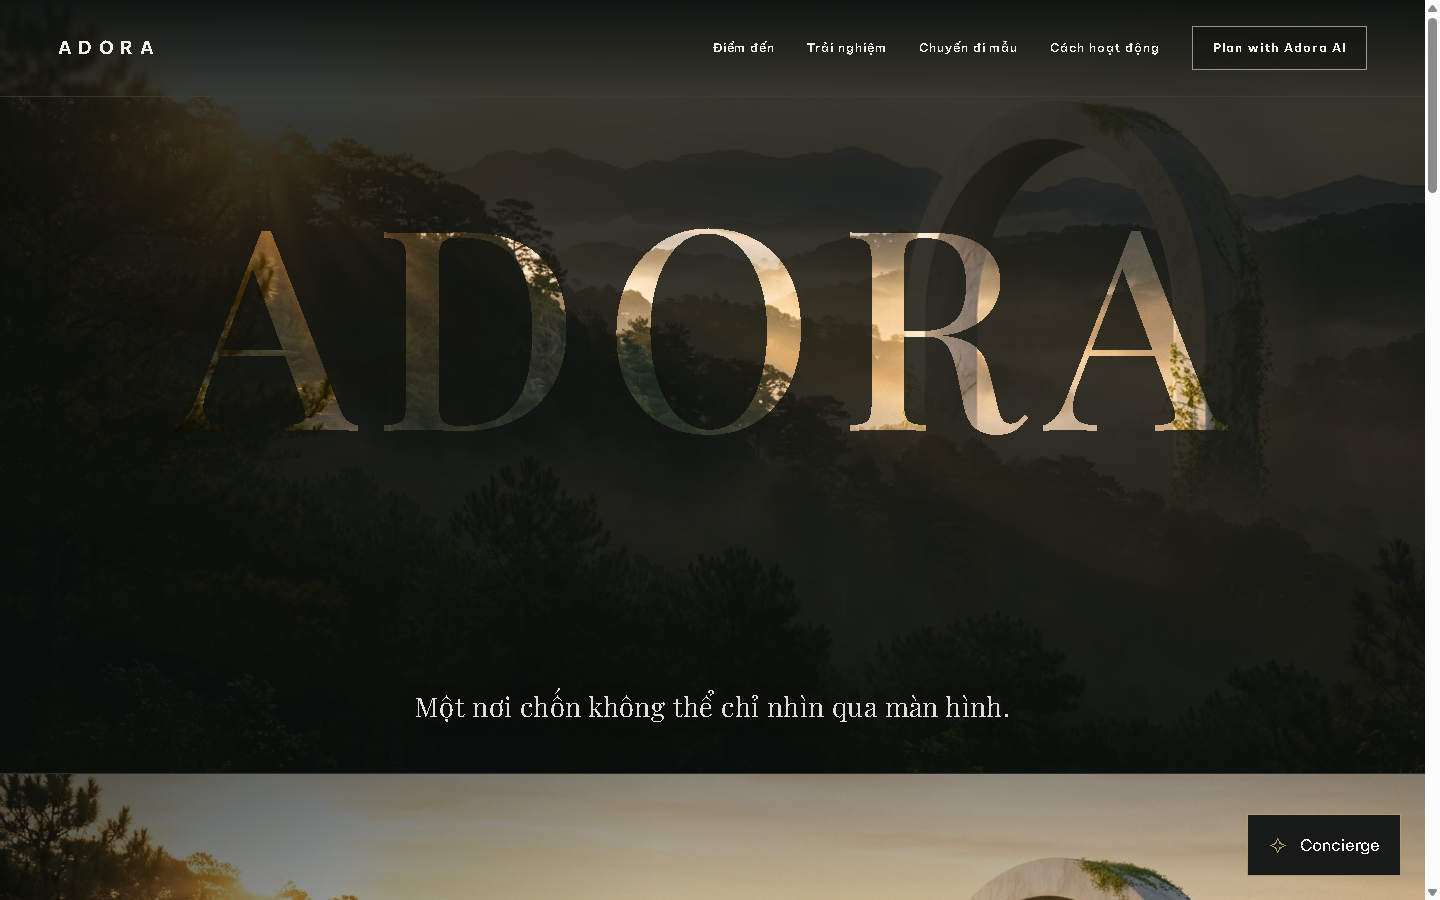
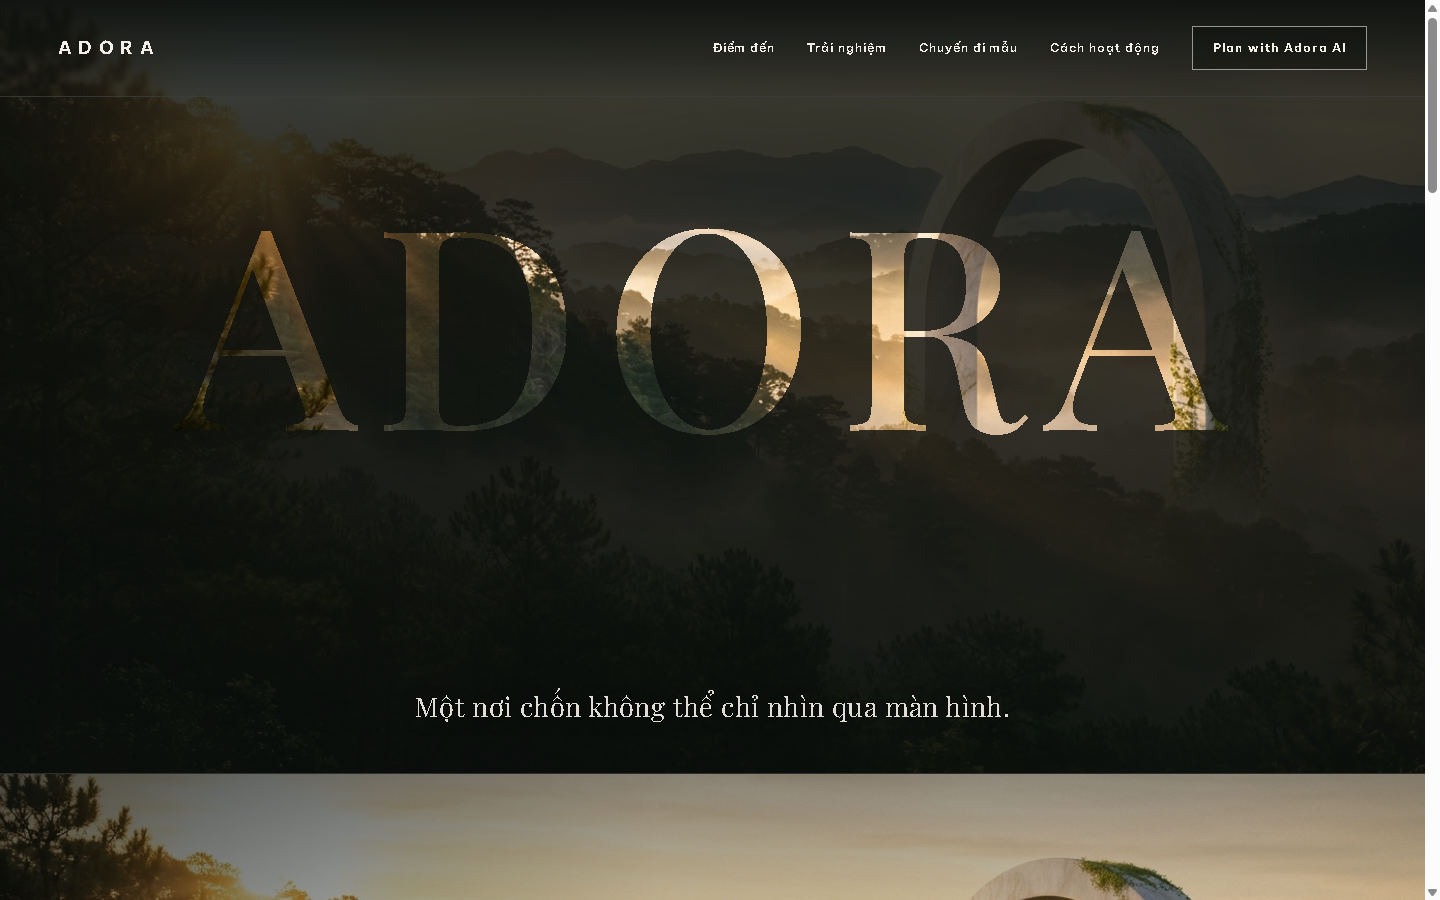
test(web): close cinematic homepage release-candidate checks

Changed region(s): [[0.8438, 0.9022, 1.0, 0.9956]]

diff --git a/docs/reports/ADORA_CXP03C_PRODUCTION_HARDENING_REPORT.md b/docs/reports/ADORA_CXP03C_PRODUCTION_HARDENING_REPORT.md
@@ -1,0 +1,86 @@
+# ADORA CXP-03C — Production Hardening & Final Verification Report
+
+**Release Candidate Verdict:** `ADORA CXP-03C — RELEASE CANDIDATE READY FOR OWNER REVIEW`
+
+## 1. Initial Git State & CXP-03B Verification
+
+- **Worktree:** `F:\Coding\Adora System Mega Project\adora-system-cxp03`
+- **Branch:** `feature/adora-cxp03-homepage-integration`
+- **Verified Starting HEAD (CXP-03B committed):** `12148016a38ff451eeaac8e07658770b9056284b` (`refactor(web): refine homepage hero composition and caption rail`)
+- **Parent CXP-03A Commit:** `98deb65d9d753d468e99ef0c42034042dd9ed4c1`
+- **Untouched `main` Baseline:** `43304e3f70768553177dc410cd37351c079cd6a0`
+
+## 2. Priority 1 — Floating Concierge Visibility Defect & Authoritative Fix
+
+- **Root Cause:** In CXP-03B, removing the obsolete in-hero `.hero-primary-cta` button eliminated the only collision selector suppressing `ConciergeFloatingTrigger` at `scrollY = 0`. With no movement-aware lifecycle signal, `ConciergeFloatingTrigger` evaluated `collisions = false` on initial load and rendered over the lower-right corner of the Movement 01 hero frame.
+- **Lifecycle Fix:**
+  - Added `cinematicMovement: "01" | "02" | "03" | "04" | "05" | "06" | null` and `setCinematicMovement` to `ConciergeProvider` (`concierge-provider.tsx`).
+  - Updated `ConciergeFloatingTrigger` (`concierge-floating-trigger.tsx`) so on `path === '/'` it returns `null` (completely unmounted — not visible, not focusable, no pointer interception, zero initial-render flash) unless `cinematicMovement` is explicitly `"02"`, `"03"`, `"04"`, or `"05"` (and still respects `isOpen`, `menuOpen`, `footer`, `[data-concierge-inline]`, and focused inputs).
+  - Updated `CinematicJourneyExperience` (`mode="production"`) to sync `setCinematicMovement(state.movement)` from `computeCinematicJourneyState` on mount/hydration and every boundary crossing (resetting to `null` on unmount), and added viewport-section tracking for reduced-motion mode (`01` → HIDDEN, `02`–`05` → VISIBLE, `06`/footer → HIDDEN).
+- **Verified State Table (`verify_cxp03_homepage.mjs`, desktop `1440×900` & mobile `390×844`, forward & reverse):**
+  - Movement 01 start (`p = 0.00`), passage (`p = 0.13`), near-end (`p = 0.17`), reverse to start (`p = 0.00`): **HIDDEN** (`visible: false`, `ok: true`)
+  - Movements 02 (`p = 0.255`, `0.355`), 03 (`p = 0.44`), 04 (`p = 0.62`, reverse `0.62`), 05 (`p = 0.83`): **VISIBLE** (`visible: true`, `ok: true`)
+  - Movement 06 start (`p = 0.90`), finale (`p = 0.97`), and `SiteFooter`: **HIDDEN** (`visible: false`, `ok: true`)
+
+## 3. Priority 2 — Restored UX-1 Concierge Regression Coverage
+
+- Updated `scripts/verify_concierge.mjs` to replace the removed `.hero-primary-cta` selector with the real approved entry points (`header [data-concierge-trigger]` on desktop `>= 1024px`, `#mobile-navigation [data-concierge-trigger]` on mobile `< 1024px`), added an explicit assertion that `a.concierge-floating` is hidden during Movement 01 (`scrollY = 0`), and kept every existing focus-trap, reverse-Tab, inertness, survey, IME/Shift+Enter, draft-survival across `/ai-planner`, reload-reset, `data-motion="off"`, `prefers-reduced-motion: reduce`, mid-scroll floating trigger (`y = 1700`), print-media unlock, and `HTMLDialogElement = undefined` fallback check intact.
+- **Outcome:** `scripts/verify_concierge.mjs` **PASSED** across all 6 viewports (`360`, `390`, `768`, `1024`, `1440`, `1920`) with `errors: []`.
+
+## 4. Priority 3 — No-JS / PPR Fallback Root Cause & Fix
+
+- **Root Cause:** With `cacheComponents: true` and `partialPrefetching: true` in `next.config.ts`, the root `apps/web/src/app/loading.tsx` wrapped `/` in an outer `<Suspense fallback={<Loading />}>`, causing Next.js to emit `<main aria-busy="true">Đang tải nội dung…</main>` as the visible initial HTML shell and place the actual homepage `<main class="cxp02-root cxp03-production">` inside `<div hidden id="S:1">`, which never swapped when JavaScript was disabled.
+- **Route-Appropriate Fix:** Moved the loading skeleton from root `apps/web/src/app/loading.tsx` into route-scoped loading files for dynamic catalog routes (`apps/web/src/app/destinations/loading.tsx`, `apps/web/src/app/experiences/loading.tsx`, `apps/web/src/app/trips/loading.tsx`), preserving `cacheComponents: true`, `partialPrefetching: true`, Phase 1A `getHomepageCatalog()`, and catalog loading skeletons while allowing `/` to paint its `<main>` directly in the initial HTML shell.
+- **Verified No-JS Result (`17_no_js_fallback.png`):** `hasLoadingSkeleton: false`, `openingPaintedHeight: 558`, `h1Count: 1`, `headerCount: 1`, `footerCount: 1`, `discoveryOpacity: "1"`, `journeyOpacity: "1"`, `conciergeOpacity: "1"`, `hasDestinationLink: true`, `hasAiPlannerLink: true`.
+
+## 5. Priority 4 — Next.js Security Patch & Dependency Evidence
+
+- **Upgraded Packages (`apps/web/package.json` & `pnpm-lock.yaml`):**
+  - `next`: `16.4.3` → **`16.4.6`** (latest stable patched release in the `16.4.x` family, superseding the November 3, 2026 `16.4.5` security release)
+  - `eslint-config-next`: `16.4.3` → **`16.4.6`**
+- **Frozen-Lockfile & Build Verification:**
+  - `pnpm install --frozen-lockfile`: Passed (`Lockfile is up to date`, exit `0`).
+  - `pnpm build`: Passed cleanly on the **first try** (`Next.js 16.4.6 (Turbopack)`, `22/22` routes, **zero** `SecurityFatalError` or upgrade nudges).
+- **`pnpm audit --prod` Findings:** `0` critical, `0` high, `0` Next.js vulnerabilities. Remaining `6` advisories (`1` low, `5` moderate — e.g. `glob` `GHSA-3g3m-2fjr-6pw4`) are scoped to Expo CLI transitive dependencies inside `apps/mobile` and do not affect `apps/web` runtime.
+
+## 6. Priority 5 — Image Delivery & Lint Warnings Review
+
+- Retained native `<img>` elements (16 scoped `@next/next/no-img-element` warnings, `0` errors) for the full-bleed SVG `<mask>` / `clip-path` / `transform` cinematic plates (`highland-world.jpg`, `human-moment.jpg`, `stone-pillar-occluder.png`, `adora-highlands-hero.webp`) and diurnal ribbon plates to preserve pixel-exact mask alignment and zero visual regression against CXP-03B. No global lint suppression was added; Discovery ribbon images use `loading="lazy"` and hero plate uses `fetchPriority="high" decoding="sync"`.
+
+## 7. Priority 6 — Controlled 5-Sample Performance Verification
+
+Measured against the `Next.js 16.4.6` production server (`http://127.0.0.1:3103`, `Chrome/157.0.8103.79`, cold browser cache cleared before each sample):
+
+| Profile | Samples | Median LCP | LCP Range | Median TBT | Max CLS | JS / CSS / Img Transfer |
+| :--- | :---: | :---: | :---: | :---: | :---: | :---: |
+| Desktop `1440×900` (1× CPU) | 5 | **136 ms** | `128–180 ms` | **0 ms** | **0** | `272 KB` / `21 KB` / `2192 KB` |
+| Mobile `390×844` (4× CPU, DPR 2) | 5 | **212 ms** | `200–256 ms` | **51 ms** | **0** | `243 KB` / `21 KB` / `2192 KB` |
+
+Raw samples saved outside Git: `C:\Users\Admin\.gemini\antigravity\brain\bac67ed9-1138-4132-ab5b-4e2ba46c5af4\scratch\cxp03c_verify\perf_5x.json`.
+
+## 8. Priority 7 & 8 — Accessibility, Responsive & Full Regression Results
+
+| Check | Outcome |
+| :--- | :--- |
+| `pnpm test` (`apps/web`) | **PASS** (`48/48`, 6 suites) |
+| `pnpm typecheck` (`apps/web`) | **PASS** (`0` errors) |
+| `pnpm lint` (`apps/web`) | **PASS** (`0` errors, `16` justified `@next/next/no-img-element` warnings) |
+| `pnpm build` (`apps/web`) | **PASS** (first-try clean `Next.js 16.4.6`, `22/22` routes) |
+| `node scripts/verify_cxp03_homepage.mjs` | **PASS** (exit `0`, `0` errors, all 6 viewports `360`–`1920`, M01–M06+Footer floating visibility, No-JS painted, reduced motion, `data-motion="off"`, scroll restoration, route nav) |
+| `node scripts/verify_concierge.mjs` | **PASS** (exit `0`, 6/6 viewports `360`–`1920`, `errors: []`) |
+| `node scripts/verify_cxp02.mjs` | **PASS** (exit `0`, `/creative-lab/cinematic-journey` preserved) |
+
+## 9. Visual Evidence & Local Preview
+
+- **Refreshed Screenshots (`docs/reports/assets/cxp03/`):** `01_home_identity.png` (M01: no in-hero CTA, floating Concierge hidden, aligned rail), `03_home_world.png` (M02: floating Concierge visible above rail), `06_home_discovery_ribbon.png` (M04: floating Concierge visible), `08_home_ai_concierge.png` (M06: floating Concierge hidden), `10_home_footer.png` (Footer: floating Concierge hidden), `11_mobile_opening.png` (Mobile M01: floating Concierge hidden), `16_reduced_motion.png`, `17_no_js_fallback.png` (No-JS: painted dark editorial homepage, zero loading skeleton).
+- **Genuine CDP Screencast WebM Recordings (scratch storage, not committed):**
+  - `C:\Users\Admin\.gemini\antigravity\brain\bac67ed9-1138-4132-ab5b-4e2ba46c5af4\scratch\cxp03c_verify\cxp03_forward_motion.webm`
+  - `C:\Users\Admin\.gemini\antigravity\brain\bac67ed9-1138-4132-ab5b-4e2ba46c5af4\scratch\cxp03c_verify\cxp03_reverse_motion.webm`
+  - `C:\Users\Admin\.gemini\antigravity\brain\bac67ed9-1138-4132-ab5b-4e2ba46c5af4\scratch\cxp03c_verify\cxp03_mobile_motion.webm`
+- **Local Preview:** Run `pnpm start --port 3103` in `F:\Coding\Adora System Mega Project\adora-system-cxp03\apps\web` and open `http://localhost:3103/`.
+
+## 10. Unresolved Findings & Release Recommendation
+
+- **Unresolved (non-blocking for web RC):** 6 low/moderate Expo CLI transitive advisories in `apps/mobile` (`pnpm audit --prod`), and 16 justified `@next/next/no-img-element` warnings for SVG-masked cinematic plates.
+- **Not Performed:** Real physical mobile device testing (all mobile metrics are headless Chrome CDP 4× CPU throttled); remote push/deployment (owner-controlled).
+- **Release Recommendation:** **Ready for owner final review and approval** on `feature/adora-cxp03-homepage-integration`. `main` remains untouched and no merge/push/deploy occurred.
